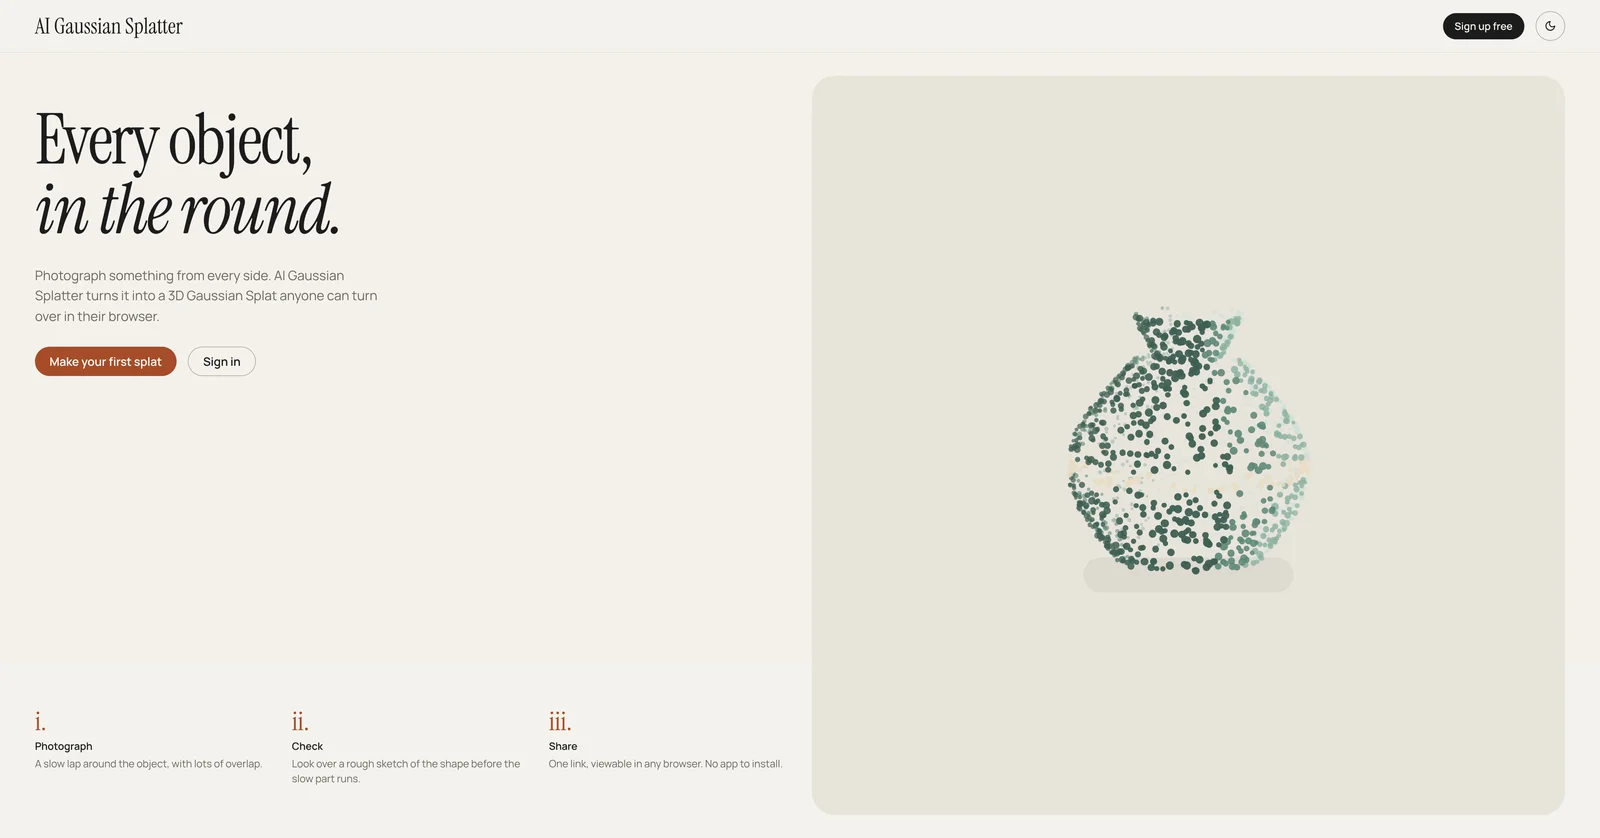
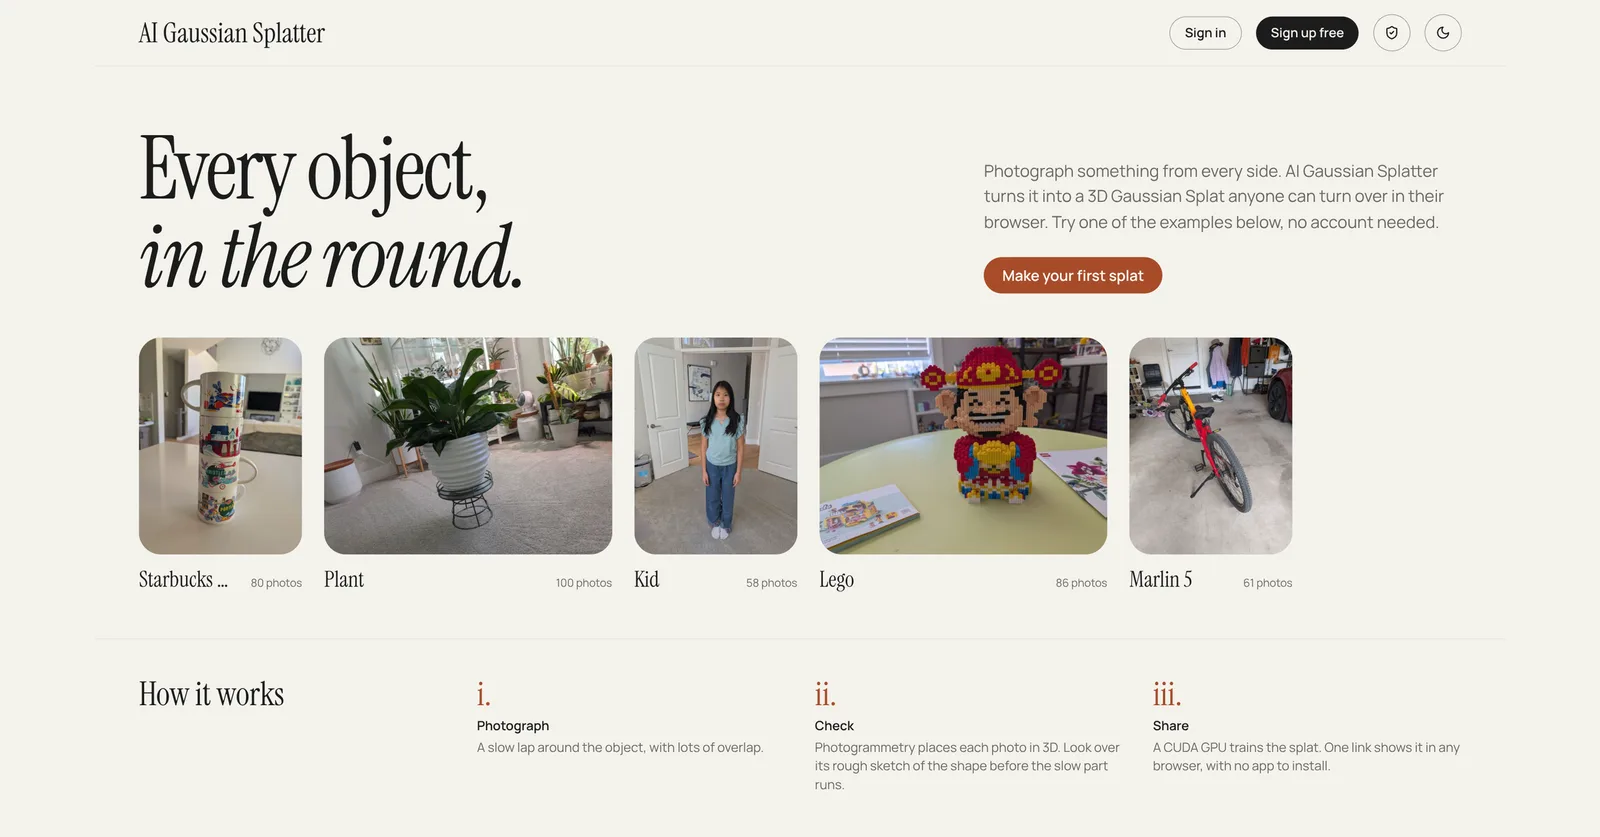
docs: show the current app in the README's screenshots
The README's screenshots predated cropping a finished splat. The landing page now leads full width under the intro. The point cloud, the crop box and the finished splat of one Lego figure follow the review, crop and view steps they illustrate. Each image is 1.91:1, the shape LinkedIn recommends, from the same captures as the LinkedIn post.

diff --git a/README.md b/README.md
@@ -2,16 +2,9 @@
 
 Upload multi-angle photos of a physical object, get back a real-time, interactive 3D Gaussian Splat you can view in the browser and share. Photogrammetry places the photos in 3D, and AI training on a CUDA GPU in the cloud turns them into the splat.
 
+<img src="images/landing.webp" alt="The AI Gaussian Splatter landing page, headed &quot;Every object, in the round.&quot;, with five example splats (Starbucks mugs, a plant, a child, a Lego figure and a bike) above the three steps of how it works">
+
 > 🚧 **Under construction.** The pipeline has run end to end on a local GPU. The AWS stack has been deployed before for testing, but is currently torn down while development continues. Several gaps remain. See [State / what's next](AGENTS.md#11-state--whats-next).
-
-<p>
-  <img src="images/landing.webp" width="24%" alt="The AI Gaussian Splatter landing page">
-  <img src="images/new-splat.webp" width="24%" alt="The new splat page, with a photo drop zone and shooting tips">
-  <img src="images/review.webp" width="24%" alt="The review step: the point cloud of a bike, with the camera positions of the 61 photos drawn above it">
-  <img src="images/splat-ready.webp" width="24%" alt="The finished 3D Gaussian Splat of the same bike, with its share link">
-</p>
-
-The landing page, the upload page with its shooting tips, then a splat of a bike built from 61 photos. The third view is the review step: the point cloud reconstructed from the photos, with an orange frame marking where each photo was taken. The last is the finished 3D Gaussian Splat, ready to share.
 
 Built with the help of [Claude Code](https://claude.com/product/claude-code) and Cursor.
 
@@ -36,6 +29,14 @@ A 3D Gaussian Splat represents an object as millions of small, semi-transparent,
 4. **Train.** gsplat trains a Gaussian Splat on the photos with its CUDA kernels on an NVIDIA GPU.
 5. **Crop.** Optionally fit a box around the object in the point cloud view, checking it from the front, side or top, to drop the background from the finished splat. Undo brings the original back.
 6. **View and share.** Orbit the splat in the browser, share a public link (with an Open Graph preview image), or download the `.ply` to edit in other splat tools.
+
+<p>
+  <img src="images/point-cloud.webp" width="32%" alt="Review: the point cloud COLMAP reconstructed from 86 photos of a Lego figure, beside the photo grid and each stage's timings">
+  <img src="images/crop-box.webp" width="32%" alt="Crop: a translucent box with drag handles fitted around the Lego figure in its point cloud">
+  <img src="images/splat.webp" width="32%" alt="View: the finished 3D Gaussian Splat of the Lego figure, beside its share link and photo grid">
+</p>
+
+The same Lego figure at the review, crop and view steps, built from 86 photos in 5 minutes of GPU time.
 
 The AI training is per-object gradient descent through a differentiable renderer, not a pretrained model ([Pipeline](ARCHITECTURE.md#2-pipeline)).
 
